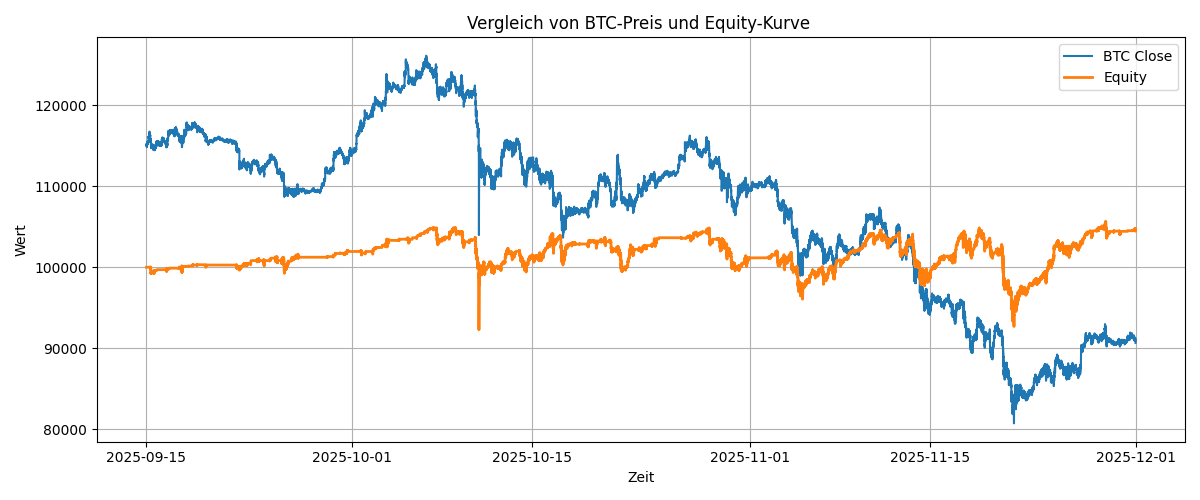
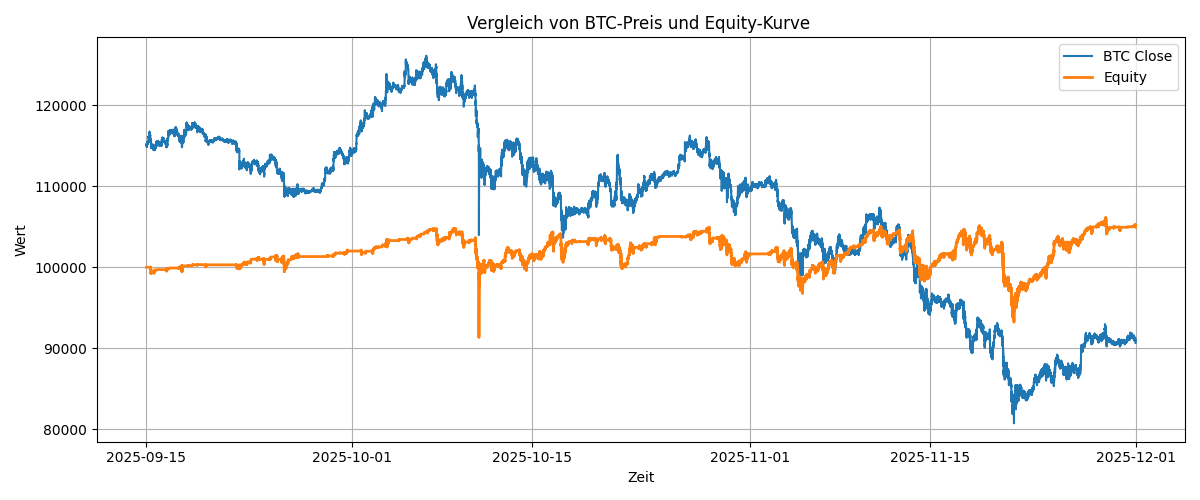
Backtesting

diff --git a/experiments/exp_1_2/scripts/09_model_deployment/backtesting.py b/experiments/exp_1_2/scripts/09_model_deployment/backtesting.py
@@ -152,11 +152,18 @@ def setSellOrder(row_index, account, positions, timestamp, buying_count):
 def setBuyOrder(prob_up, row_index, account, positions, timestamp, buying_count):
     current_price = x_test.loc[row_index, 'close']
 
+    if prob_up >= 0.5:
+        buy_pct = 0.2
+    elif prob_up >= 0.3:
+        buy_pct = 0.1
+    else:
+        buy_pct = 0.05
+
     if buying_count < 16:  # UP - KAUFEN
         trades[timestamp] = "BUY"
         if len(positions) == 0:
             # Erste Position öffnen
-            position_size = account * 0.20
+            position_size = account * buy_pct
             shares = position_size / current_price #wie viel Prozent vom Bitcoin Preis investiert man
             account = account - position_size
 
@@ -184,7 +191,7 @@ def setBuyOrder(prob_up, row_index, account, positions, timestamp, buying_count)
             # Position bereits offen - NACHKAUFEN
             position = positions[0]
 
-            additional_size = account * 0.10  # Nur 5% nachkaufen
+            additional_size = account * buy_pct  # Nur 5% nachkaufen
             additional_shares = additional_size / current_price
             account = account - additional_size
 
